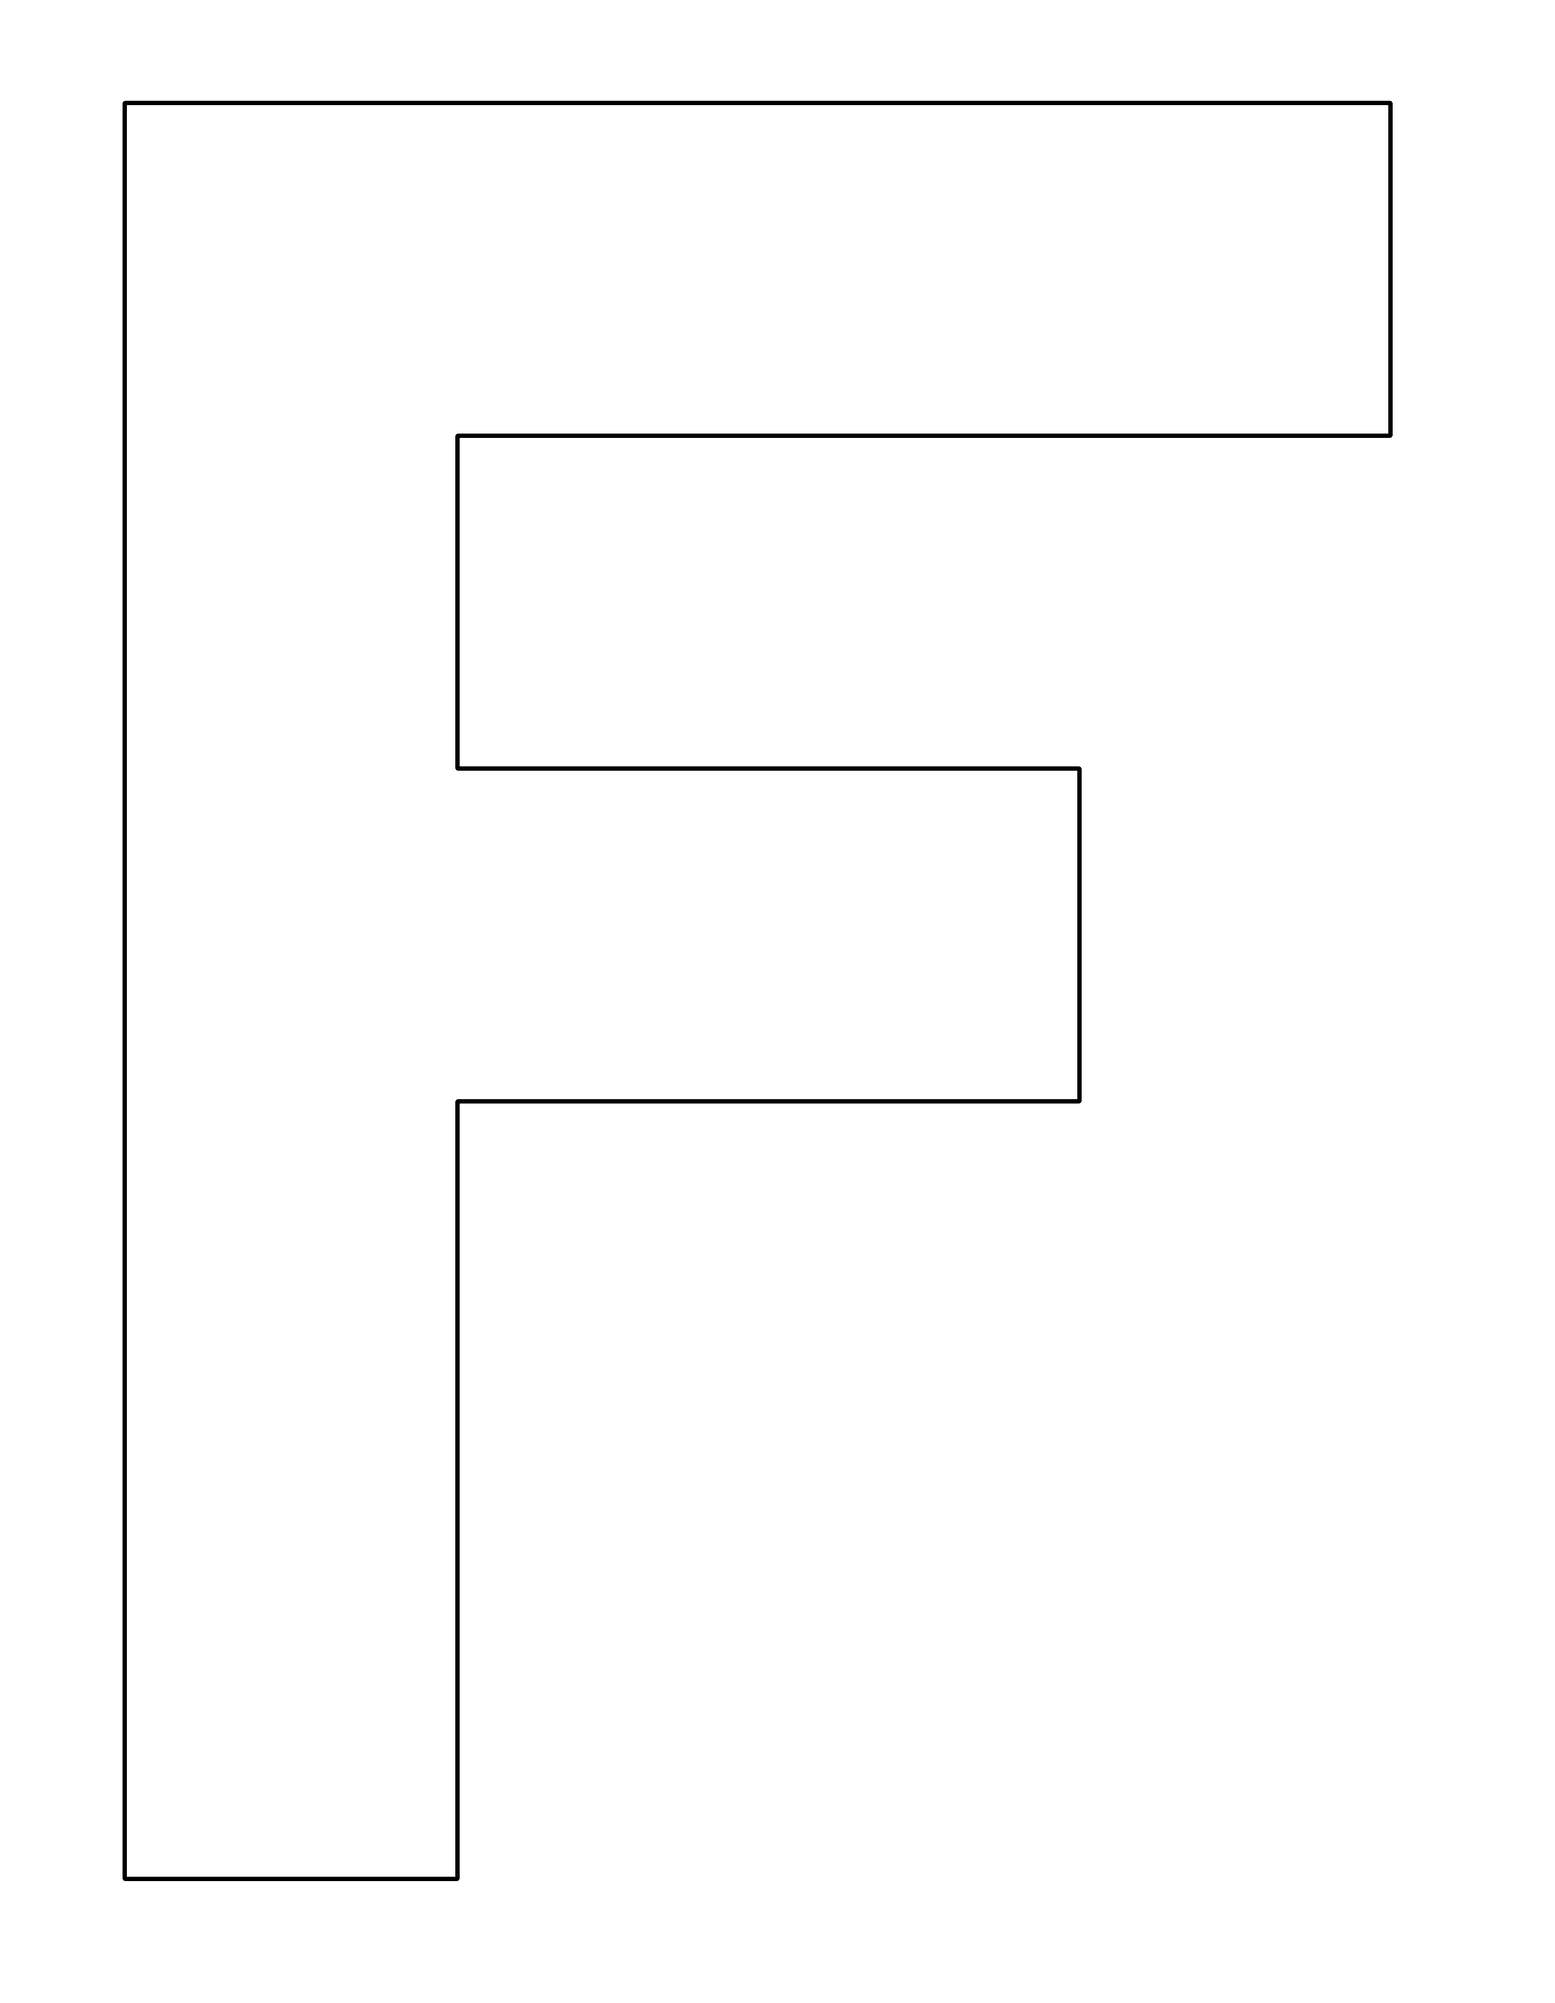
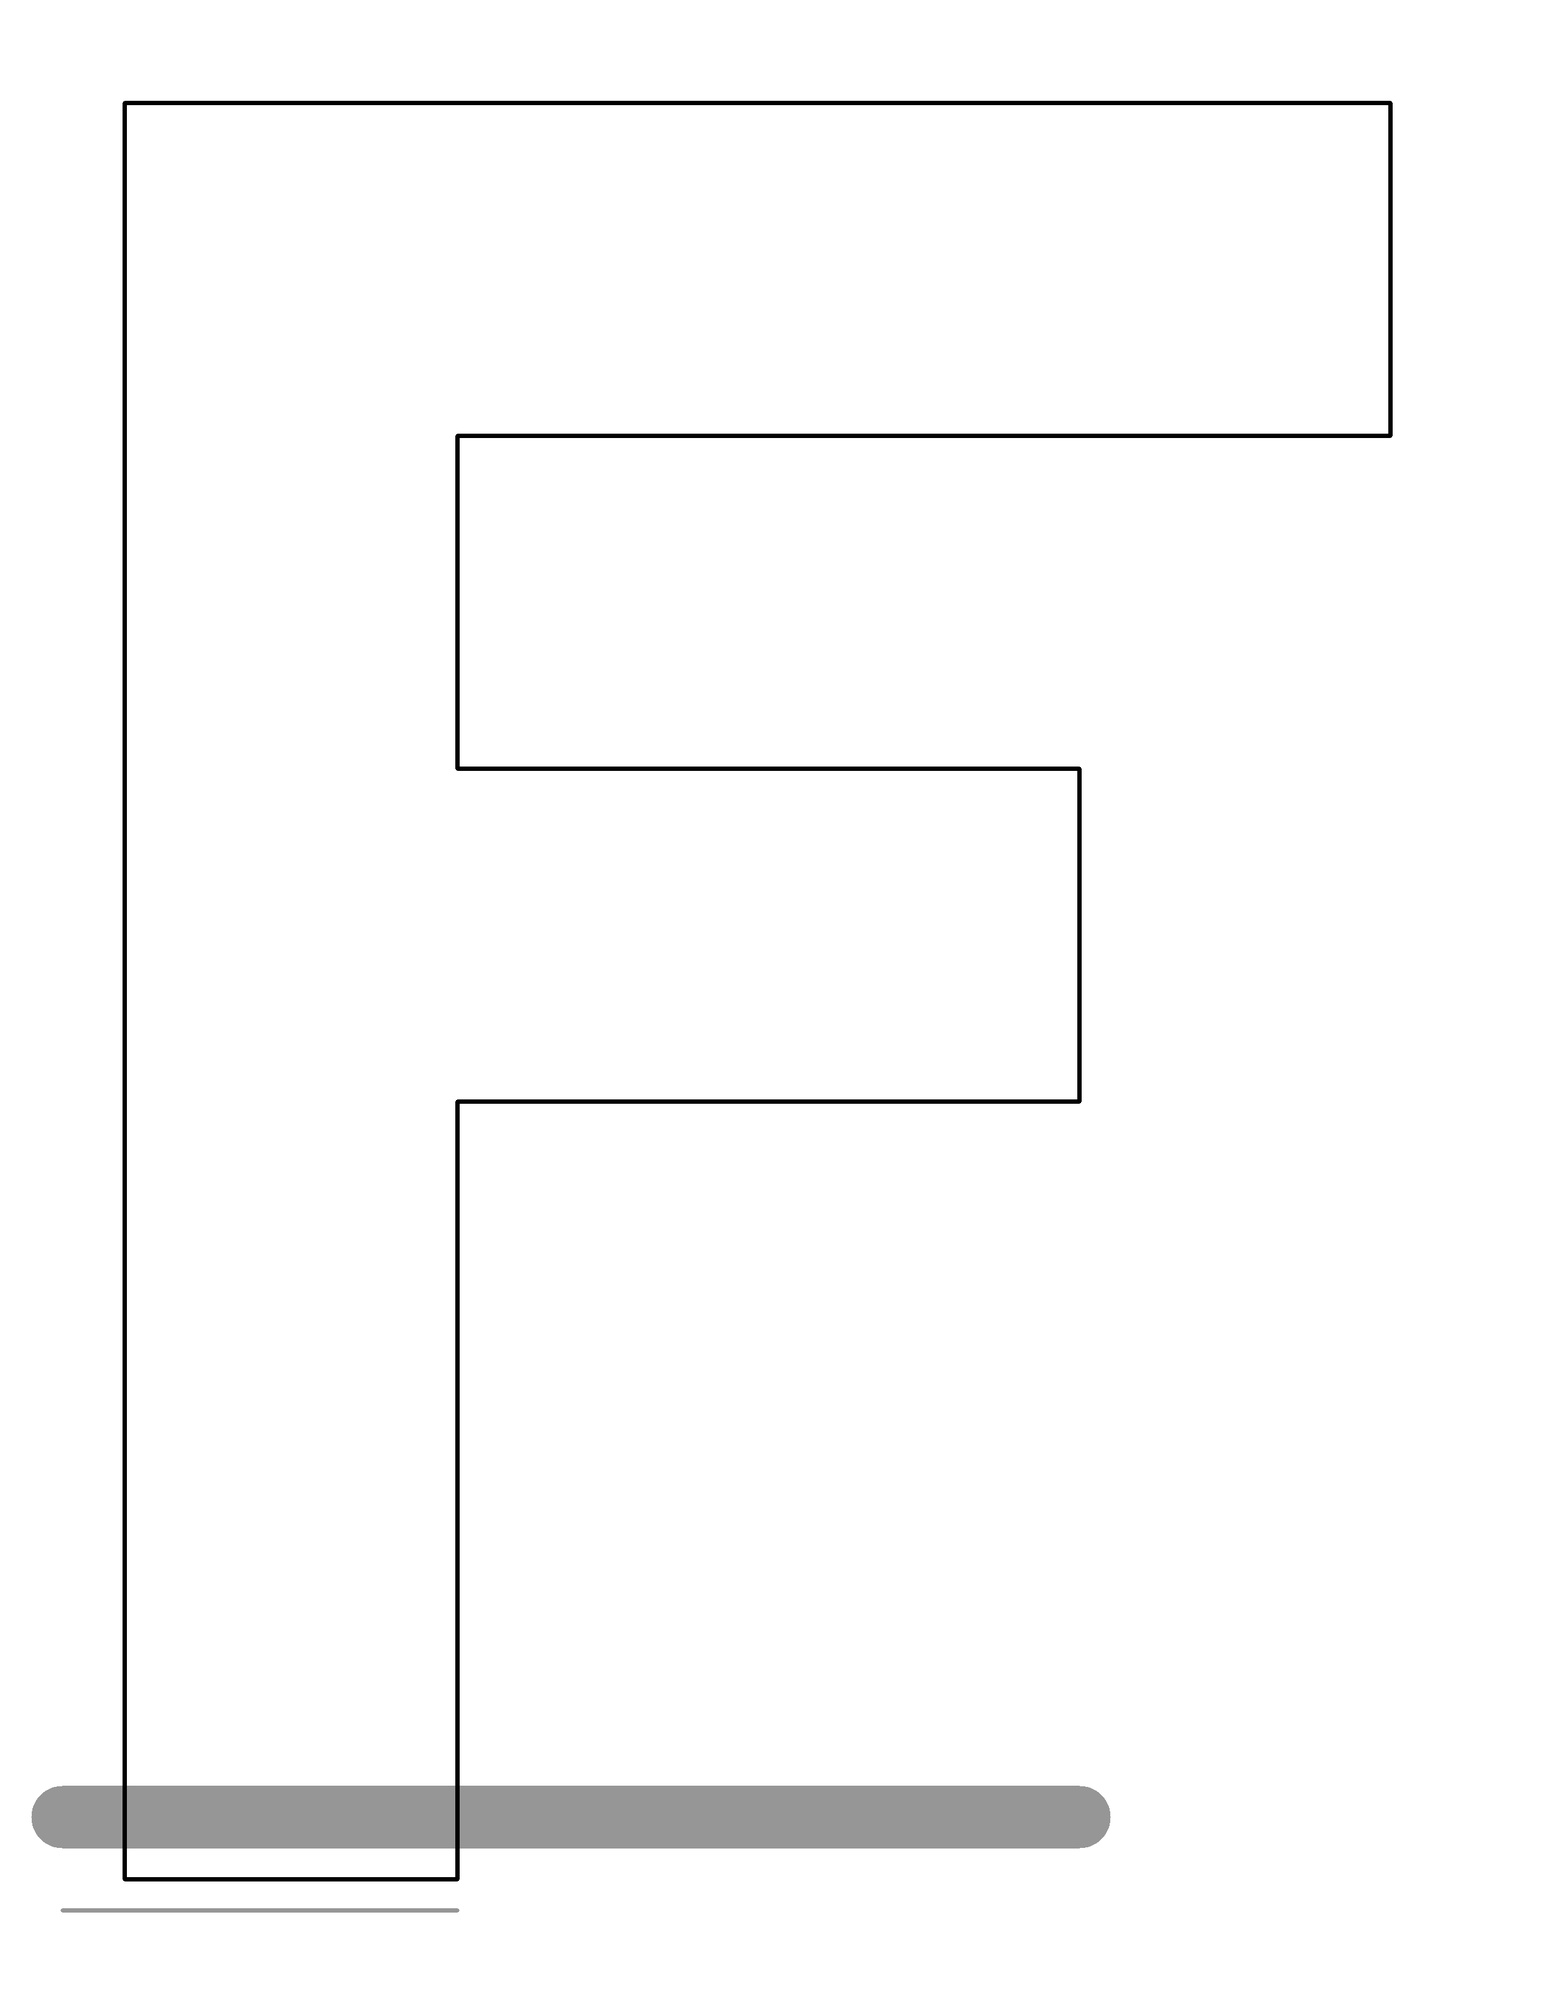
Make F map to marathon. ADD 5 meters punish

Changed region(s): [[0.0, 0.875, 0.7176, 0.9688], [0.312, 0.5312, 0.6864, 0.5625], [0.312, 0.375, 0.6864, 0.4062]]

diff --git a/controllers/marathon_new/images/make_map.py b/controllers/marathon_new/images/make_map.py
@@ -2,18 +2,16 @@ import cv2
 import numpy as np
 
 # Задаем параметры отрезков
-
 b = 1250
 c = 1000
 f = 1500
-a = (10000 - b - 2*c - 2*f)//7
+a = (10000 - b - 2 * c - 2 * f) // 7
 d = a
-print(3*a+b)
-
+print(3 * a + b)
 
 # Создаем белое изображение
 width = 2500
-height = 3220
+height = 3200
 image = np.ones((height, width, 3), dtype=np.uint8) * 255
 
 # Толщина линий
@@ -22,57 +20,76 @@ thickness = 5
 # Начальная точка
 x, y = 200, 3020
 
-# Рисуем отрезки
-def draw_line(img, start_point, end_point, color, thickness):
+# Функция для рисования отрезков с серыми линиями
+def draw_line_with_gray(img, start_point, end_point, color, thickness):
+    offset = 50
+
+    # Вычисляем направления серых линий
+    if start_point[0] == end_point[0]:  # Вертикальная линия
+        start_point_left = (start_point[0] - offset, start_point[1] - 50)
+        end_point_left = (end_point[0] - offset, end_point[1]-50)
+        start_point_right = (start_point[0] + offset, start_point[1]+50)
+        end_point_right = (end_point[0] + offset, end_point[1]+50)
+    else:  # Горизонтальная линия
+        start_point_left = (start_point[0]-50, start_point[1] - offset)
+        end_point_left = (end_point[0]-50, end_point[1] - offset)
+        start_point_right = (start_point[0]+50, start_point[1] + offset)
+        end_point_right = (end_point[0]+50, end_point[1] + offset)
+
+    # Рисуем черную линию
     cv2.line(img, start_point, end_point, color, thickness)
+
+    # Рисуем серые линии
+    gray_color = (128, 128, 128)
+    cv2.line(img, start_point_left, end_point_left, gray_color, 2)
+    cv2.line(img, start_point_right, end_point_right, gray_color, 2)
 
 color = (0, 0, 0)  # Черный цвет
 
 # Отрезок длины a вправо
-draw_line(image, (x, y), (x + a, y), color, thickness)
+draw_line_with_gray(image, (x, y), (x + a, y), color, thickness)
 x += a
 
 # Отрезок длины b вверх
-draw_line(image, (x, y), (x, y - b), color, thickness)
+draw_line_with_gray(image, (x, y), (x, y - b), color, thickness)
 y -= b
 
 # Отрезок длины c вправо
-draw_line(image, (x, y), (x + c, y), color, thickness)
+draw_line_with_gray(image, (x, y), (x + c, y), color, thickness)
 x += c
 
 # Отрезок длины a вверх
-draw_line(image, (x, y), (x, y - a), color, thickness)
+draw_line_with_gray(image, (x, y), (x, y - a), color, thickness)
 y -= a
 
 # Отрезок длины c влево
-draw_line(image, (x, y), (x - c, y), color, thickness)
+draw_line_with_gray(image, (x, y), (x - c, y), color, thickness)
 x -= c
 
 # Отрезок длины d вверх
-draw_line(image, (x, y), (x, y - d), color, thickness)
+draw_line_with_gray(image, (x, y), (x, y - d), color, thickness)
 y -= d
 
 # Отрезок длины f вправо
-draw_line(image, (x, y), (x + f, y), color, thickness)
+draw_line_with_gray(image, (x, y), (x + f, y), color, thickness)
 x += f
 
 # Отрезок длины a вверх
-draw_line(image, (x, y), (x, y - a), color, thickness)
+draw_line_with_gray(image, (x, y), (x, y - a), color, thickness)
 y -= a
 
 # Отрезок длины f+a влево
-draw_line(image, (x, y), (x - (f + a), y), color, thickness)
+draw_line_with_gray(image, (x, y), (x - (f + a), y), color, thickness)
 x -= (f + a)
 
 # Отрезок длины 2a+d+b вниз
-draw_line(image, (x, y), (x, y + (2 * a + d + b)), color, thickness)
+draw_line_with_gray(image, (x, y), (x, y + (2 * a + d + b)), color, thickness)
 
 # Сохраняем изображение
-cv2.imwrite('output.png', image)
-
+cv2.imwrite('output_with_gray_lines.png', image)
+img_show = cv2.resize(image, (width // 5, height // 5))
 # Отображаем изображение
-cv2.imshow('Drawing', image)
+cv2.imshow('Drawing', img_show)
 cv2.waitKey(0)
 cv2.destroyAllWindows()
-
 cv2.imwrite('letter_F.png', image)

diff --git a/controllers/Robofest_TEAM/Soccer/marathon_found_blobs.py b/controllers/Robofest_TEAM/Soccer/marathon_found_blobs.py
@@ -2,6 +2,7 @@
 Класс строит перед роботом три прямоугольника заданного размера и вычисляет среднюю координату всех пикселей линии
 марафона в этих прямоугольниках
 '''
+import time
 
 import cv2
 import numpy as np
@@ -35,13 +36,37 @@ class RectangleAnalyzer:
         translated_corners = [(x + B[0], y + B[1]) for x, y in rotated_corners]
         return translated_corners
 
+    import numpy as np
+    import cv2
+
     def get_black_pixel_mean(self, corners, B):
-        mask = np.zeros(self.image.shape, dtype=np.uint8)
-        cv2.fillPoly(mask, [np.array(corners, dtype=np.int32)], 255)
-        black_pixels = np.where((self.image == 0) & (mask == 255))
+        # Создаем ограничивающий прямоугольник
+        x_min = int(min([p[0] for p in corners]))
+        x_max = int(max([p[0] for p in corners]))
+        y_min = int(min([p[1] for p in corners]))
+        y_max = int(max([p[1] for p in corners]))
+
+        # Проверяем, что координаты не выходят за границы изображения
+        x_min = max(x_min, 0)
+        x_max = min(x_max, self.image.shape[1] - 1)
+        y_min = max(y_min, 0)
+        y_max = min(y_max, self.image.shape[0] - 1)
+
+        # Извлекаем подизображение, содержащее только область ограничивающего прямоугольника
+        sub_image = self.image[y_min:y_max + 1, x_min:x_max + 1]
+
+        # Создаем маску только для подизображения
+        sub_corners = [(p[0] - x_min, p[1] - y_min) for p in corners]
+        sub_mask = np.zeros(sub_image.shape, dtype=np.uint8)
+        cv2.fillPoly(sub_mask, [np.array(sub_corners, dtype=np.int32)], 255)
+
+        # Находим черные пиксели только в подизображении
+        black_pixels = np.where((sub_image == 0) & (sub_mask == 255))
+
         if len(black_pixels[0]) > 0:
-            mean_y = np.mean(black_pixels[0])
-            mean_x = np.mean(black_pixels[1])
+            mean_y = np.mean(black_pixels[0]) + y_min
+            mean_x = np.mean(black_pixels[1]) + x_min
+
             # ВАЖНО. Тут координаты поменены местами, так как в cv и в webots зеркальные
             x = mean_x - B[0]
             y = mean_y - B[1]
@@ -52,7 +77,7 @@ class RectangleAnalyzer:
             return None
 
     def is_out_of_distance(self, grey_range=(100, 200)):
-        pixel_value = self.image[self.robot_coords[0], self.robot_coords[1]]
+        pixel_value = self.image[self.robot_coords[1], self.robot_coords[0]]
         return grey_range[0] <= pixel_value <= grey_range[1]
 
     def get_next_B(self, prev_corners):
@@ -95,8 +120,10 @@ class RectangleAnalyzer:
 def main():
     image_path = 'map_marathon.png'
     analyzer = RectangleAnalyzer(image_path=image_path, width=30, height=20, draw=True)
-    analyzer.robot_coords = [75, 500, 3.14]  #[600, 600, 1.57]  # Начальная позиция и угол
+    analyzer.robot_coords = [500, 1760, 3.14]  # Начальная позиция и угол
+    time1 = time.time()
     mean_coordinates_list = analyzer.found_black_centers()
+    print(f'Время выполнения:{time.time()-time1}')
     print("Средние координаты всех черных пикселей внутри прямоугольников:", mean_coordinates_list)
     print(analyzer.is_out_of_distance())
 

diff --git a/controllers/marathon_new/marathon_new.py b/controllers/marathon_new/marathon_new.py
@@ -18,13 +18,12 @@ def uprint(*text):
 
 
 def is_out_of_distance(image, robot_coords, grey_range=(100, 200)):
-    pixel_value = image[int(robot_coords[1]), int(robot_coords[0])]
+    pixel_value = image[int(robot_coords[0]), int(robot_coords[1])]
     return grey_range[0] <= pixel_value <= grey_range[1]
 
 
 def main():
     image = cv2.imread('map_marathon.png', cv2.IMREAD_GRAYSCALE)
-
     supervisor = Supervisor()
     time_step = int(supervisor.getBasicTimeStep())
 
@@ -52,31 +51,45 @@ def main():
     robot_coords = robot_translation.getSFVec3f()
     robot_angle = robot_rotation.getSFRotation()
     robot_coords_old = np.array([robot_coords[0], robot_coords[1]])
+    robot_coords_np = robot_coords_old
     delta = 0
+    delta_result = 0
     respawn_points = [[delta, robot_coords, robot_angle]]
     respawn_result = robot_coords
     respawn_result_angle = robot_angle
+    out_flag = 201
     while supervisor.step(time_step) != -1:
+        if out_flag < 200:
+            out_flag += 1
+            continue
+        elif out_flag == 200:
+            out_flag += 1
+            delta = delta_result
+            robot_translation.setSFVec3f(respawn_result)
+            robot_rotation.setSFRotation(respawn_result_angle)
+            robot_coords_old = np.array([respawn_result[0], respawn_result[1]])
+
         distance_count += 1
         robot_coords = robot_translation.getSFVec3f()
         robot_angle = robot_rotation.getSFRotation()
         robot_coords_np = np.array([robot_coords[0], robot_coords[1]])
-        if distance_count % 10000 == 0:
+        if distance_count % 1000 == 0:
             delta += np.linalg.norm(robot_coords_np - robot_coords_old)
             robot_coords_old = robot_coords_np
-            print(robot_angle)
+            print(delta)
             respawn_points.append([delta, robot_coords, robot_angle])
             for respawn_point in respawn_points:
                 if delta - respawn_point[0] >= 5:
                     respawn_result = respawn_point[1]
                     respawn_result_angle = respawn_point[2]
-                    respawn_points.remove(respawn_point)
-                elif delta - respawn_point[0] < 5:
+                    # respawn_points.remove(respawn_point)
+                    delta_result = respawn_point[0]
+                else:
                     break
 
         if is_out_of_distance(image, np.abs(np.round(100*(robot_coords_np)))):
-            robot_translation.setSFVec3f(respawn_result)
-            robot_rotation.setSFRotation(respawn_result_angle)
+            out_flag = 0
+
 
     p01.terminate()
     supervisor.simulationReset()

diff --git a/controllers/marathon_new/images/make_map_webots.py b/controllers/marathon_new/images/make_map_webots.py
@@ -1,0 +1,38 @@
+import cv2
+import numpy as np
+
+def replace_colors(image_path, output_path):
+    # Загрузка изображения с помощью OpenCV
+    image = cv2.imread(image_path, cv2.IMREAD_UNCHANGED)
+
+    # Проверка, что изображение загружено
+    if image is None:
+        print("Не удалось загрузить изображение")
+        return
+
+    # Проверка, есть ли альфа-канал; если нет, добавляем его
+    if image.shape[2] == 3:
+        image = cv2.cvtColor(image, cv2.COLOR_BGR2BGRA)
+
+    # Определение маски для черных и серых пикселей
+    lower_black = np.array([0, 0, 0, 0])
+    upper_black = np.array([180, 180, 180, 255])
+    black_mask = cv2.inRange(image, lower_black, upper_black)
+
+    # Определение маски для белых пикселей
+    lower_white = np.array([255, 255, 255, 255])
+    upper_white = np.array([255, 255, 255, 255])
+    white_mask = cv2.inRange(image, lower_white, upper_white)
+
+    # Замена белых пикселей на прозрачные
+    image[white_mask == 255, 3] = 0
+    # Замена черных и серых пикселей на белые
+    image[black_mask == 255] = [255, 255, 255, 255]
+    # Поворот изображения на 90 градусов по часовой стрелке
+    image_rotated = cv2.rotate(image, cv2.ROTATE_90_CLOCKWISE)
+
+    # Сохранение итогового изображения
+    cv2.imwrite(output_path, image_rotated)
+
+# Пример использования функции
+replace_colors('letter_F_circle.png', 'output_image.png')

diff --git a/controllers/Robofest_TEAM/Soccer/strategy.py b/controllers/Robofest_TEAM/Soccer/strategy.py
@@ -415,7 +415,7 @@ class Player():
         else: invert = 1
         self.motion.walk_Initial_Pose()
         for cycle in range(number_Of_Cycles):
-            self.motion.walk_Cycle(stepLength,sideLength, rotation, cycle, number_Of_Cycles)
+            self.motion.walk_Cycle(stepLength, sideLength, rotation, cycle, number_Of_Cycles)
         self.motion.walk_Final_Pose()
         self.motion.refresh_Orientation()
         self.logger.debug('self.motion.imu_body_yaw() =' + str(self.motion.imu_body_yaw()))
@@ -429,7 +429,8 @@ class Player():
             self.mean_coordinates_line = self.rectangle_anayzer.found_black_centers()
             # print(self.mean_coordinates_line)
             self.is_out_of_distance = self.rectangle_anayzer.is_out_of_distance()
-            # event.wait(timeout=1)
+            time.sleep(0.1)
+            # event.wait(timeout=0.1)
 
     def marathon_main_cycle(self, params_name):
         with open(self.glob.current_work_directory / "Init_params" / params_name, "r") as f:
@@ -444,7 +445,7 @@ class Player():
         thr.start()
         direction = 0
         last_heading = 0
-        stepLength = 30
+        stepLength = 40
         number_Of_Cycles = 500
         sideLength = 0
         self.motion.walk_Initial_Pose()
